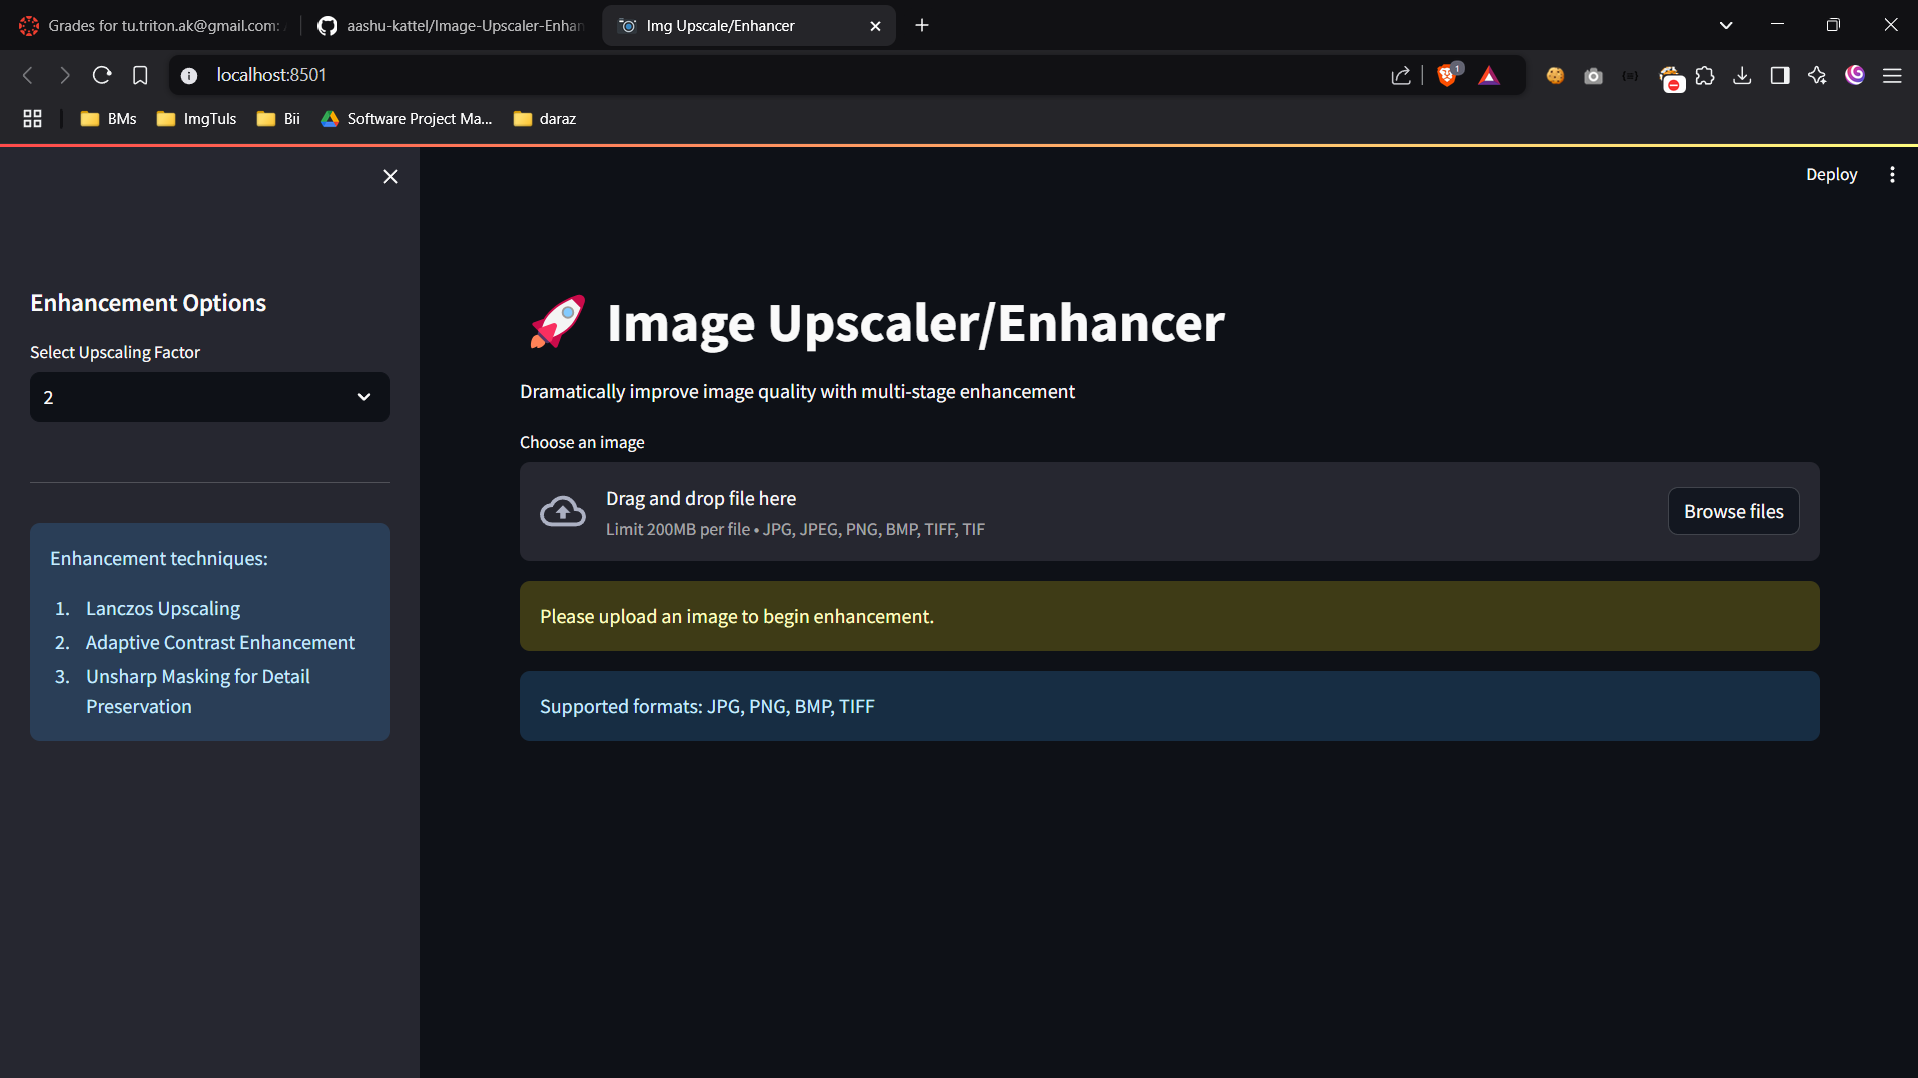
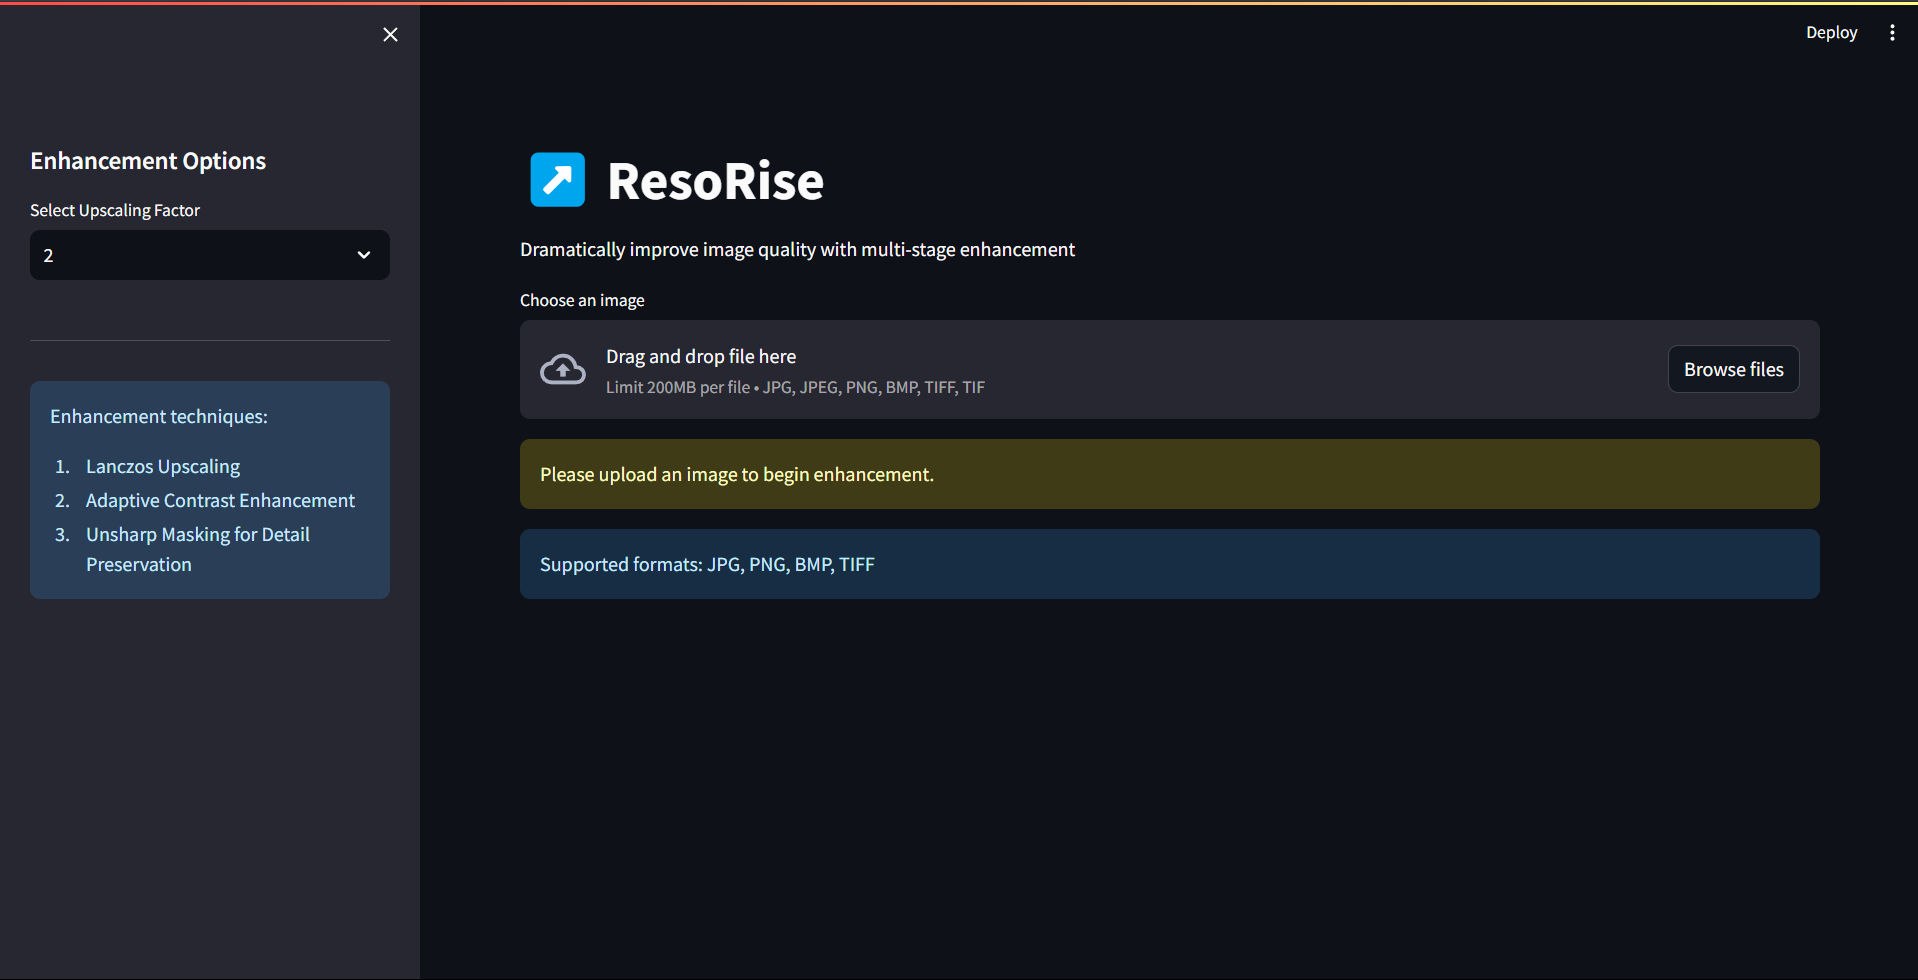
Appendices updated, Comparision files-images added

diff --git a/main.py b/main.py
@@ -107,13 +107,13 @@ class AdvancedImageUpscaler:
 def main():
     # Streamlit page configuration
     st.set_page_config(
-        page_title="Img Upscale/Enhancer", 
+        page_title="Image Upscale/Enhancer", 
         page_icon=":camera:",
         layout="wide"
     )
 
     # Title and description
-    st.title("↗ Image Upscaler/Enhancer")
+    st.title("↗ ResoRise")
     st.write("Dramatically improve image quality with multi-stage enhancement")
 
     # Sidebar for user inputs
